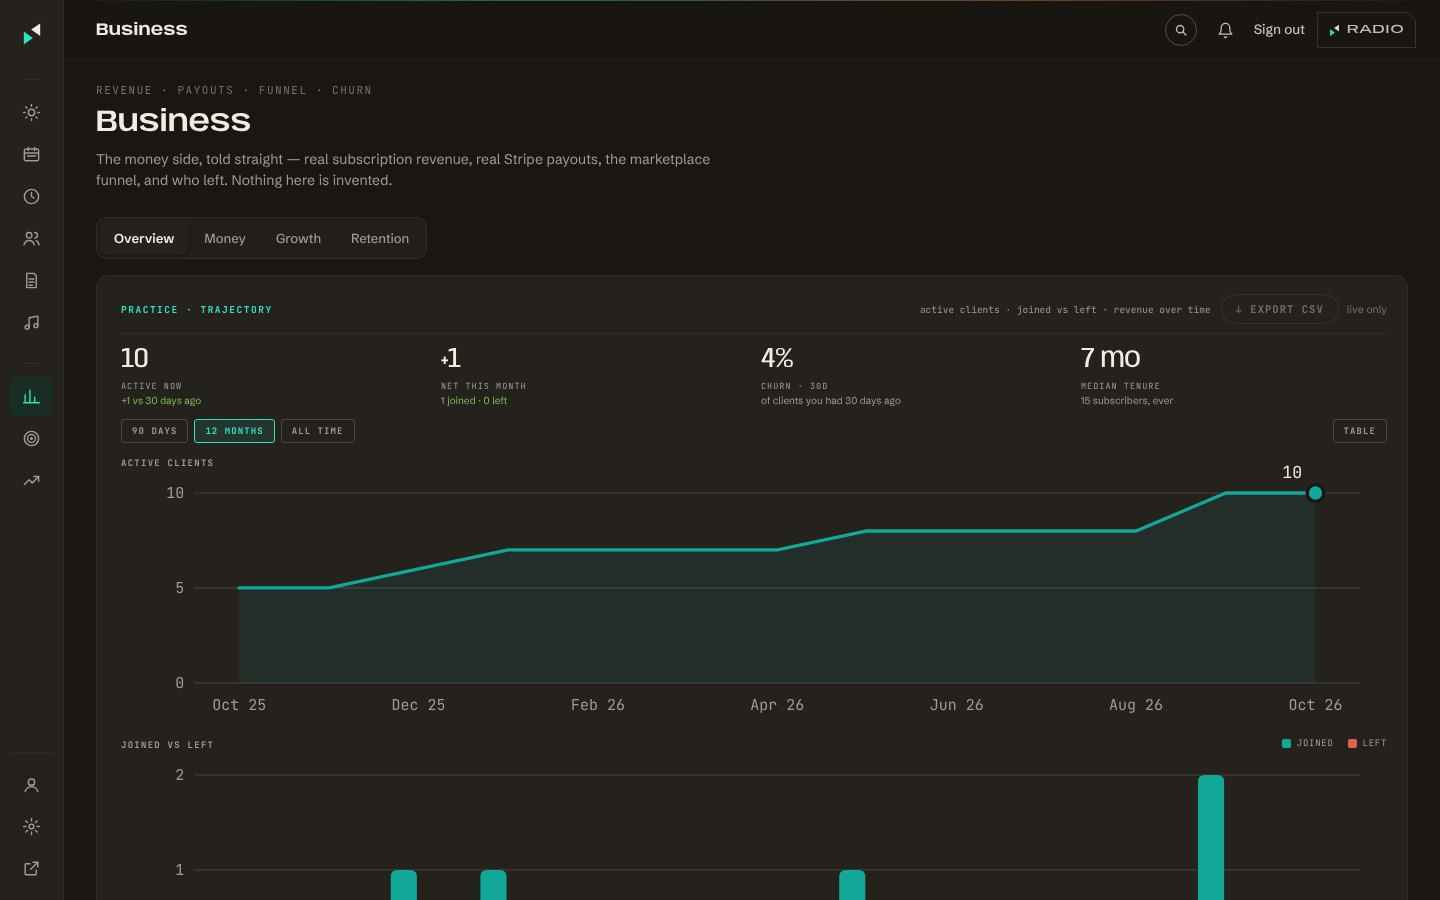
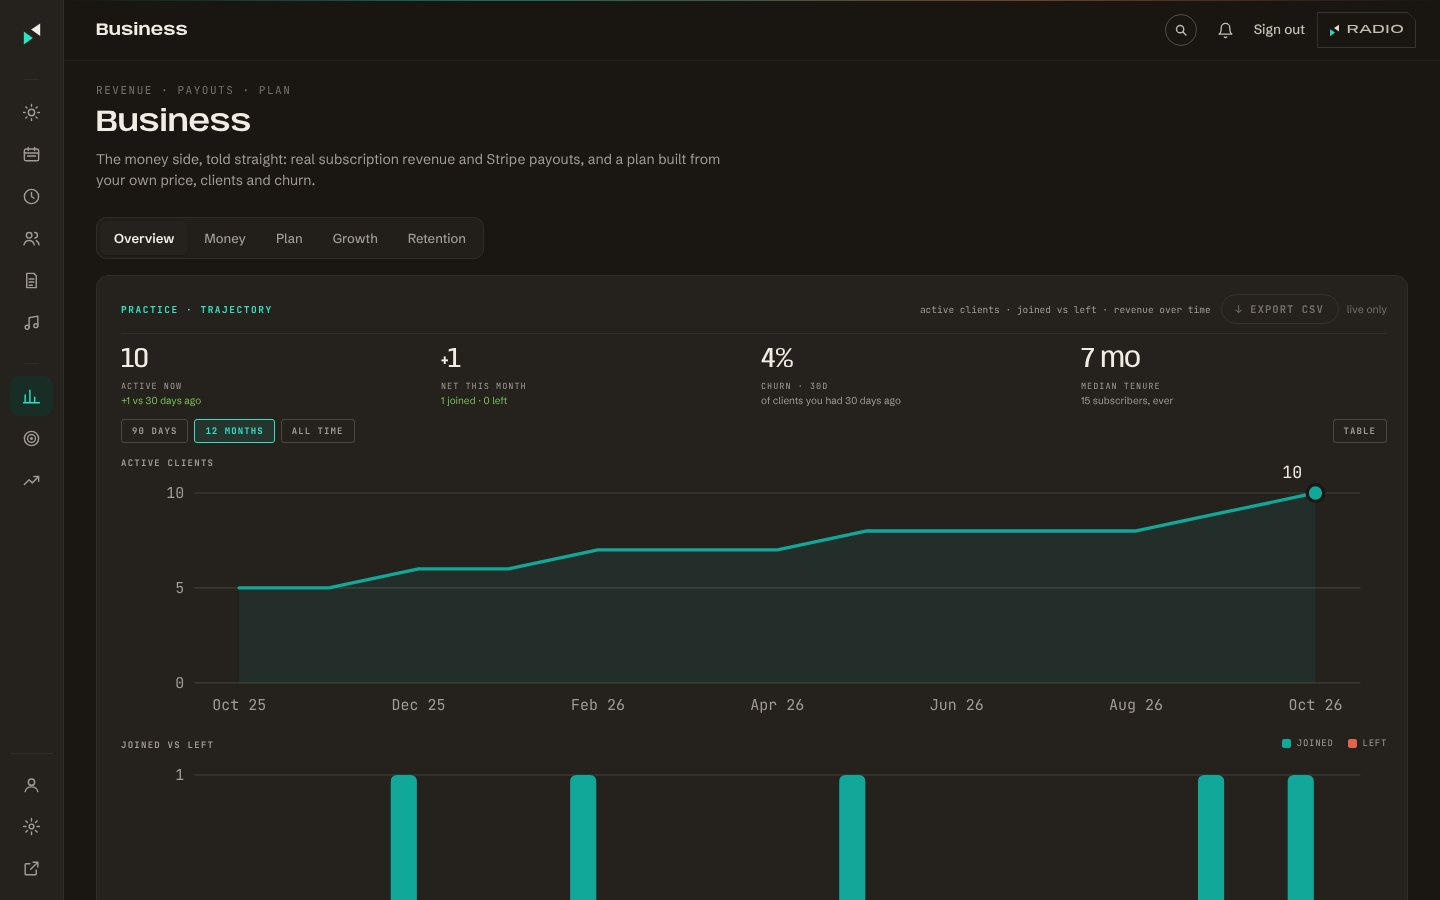
Coaches page: re-shoot the twenty dashboard frames, and the copy follows them (#2464)
* Coaches page: re-shoot the twenty dashboard frames, and the copy follows them

All twenty frames (both roles, every dashboard page but Settings) re-shot by
the recipe in coaches.jsx's header: 1440x900, dark paper, the signed-out
demo practice behind a signed-in app bar, fonts over the @fontsource-variable
files, React/ReactDOM/Babel from their npm-pack bytes (SRI-identical), JPEG
quality 86, ?v=20261026.

The copy said what the frames no longer show:
- Score counted six or seven terms; the formula is three for trainers
  (active clients, session completion, programs published) and two for
  nutritionists, as the frames' own breakdowns read.
- Goal described a revenue calculator; the card is "What clients earn you"
  (a client count and a monthly rate, read after Shape's fee).
- Business gained its Plan section; Today's Needs you gained New clients.

Claude-Session: https://claude.ai/code/session_01PffP1rUX8fL3Xxh26fzuHv

* War Room and WORKLOG: the website screenshots (#2463, #2464), and the Goal preview's failed read

The War Room records both screenshot PRs and leaves two items open: the
signed-out Goal page reading "Couldn't read your subscriptions just now"
(a 401 lands in the card's failed state, not a sample), and the Get App
Habits frame showing the untouched state. The WORKLOG's Known gaps carry
the first.

Claude-Session: https://claude.ai/code/session_01PffP1rUX8fL3Xxh26fzuHv

---------

diff --git a/public/newdesign/coaches.jsx b/public/newdesign/coaches.jsx
@@ -24,9 +24,10 @@
 // shot before the gate existed. The next person to fulfil `{user:null}` will
 // read the redirect as the harness being broken; it is the gate working.
 //
-// The Clients, Business, Goal and Score frames were re-shot 2026-10-15 (both roles), after
-// #2365 made those four pages fixed layouts with no widget builder; same recipe as below,
-// Business on its default Overview section. The ?v on `src` moved with them.
+// All twenty frames re-shot 2026-10-26 by the recipe below (Business on its default Overview
+// section), after Today's Needs you gained New clients, Business its Plan section, Goal its
+// "What clients earn you" card and Score the three-term formula. The ?v on `src` moved with
+// them. Park the pointer off the icon rail (bottom right) before each shot, or the rail opens.
 // Captures refreshed 2026-10-14, after #2343 gave the dashboard its own app frame
 // (the icon rail and the app bar ARE the dashboard now, so they stay in every frame;
 // the old recipe's "hide the site header, move main up 72px" no longer applies).
@@ -37,8 +38,9 @@
 // "Preview · demo data" band; wait for the widgets and the fonts to paint. The fonts
 // matter: Google Fonts is unreachable from the capture container, so the css2 request
 // is answered with @font-face rules over the @fontsource-variable files (Anybody with
-// its wdth axis, Schibsted Grotesk, JetBrains Mono, Space Grotesk, Fraunces), and React
-// / Babel come from `npm pack` bytes as described above. JPEG quality 86; CoFrame keeps
+// its wdth axis, Schibsted Grotesk, JetBrains Mono, Space Grotesk, Fraunces), and React,
+// ReactDOM and Babel come from their `npm pack` bytes, which match the pages' SRI hashes
+// (unpkg is unreachable too). JPEG quality 86; CoFrame keeps
 // its 40px bottom crop. No production session or client data is used. The in-frame
 // example label below remains visible in the public tour.
 //
@@ -72,8 +74,8 @@ const CO_TOUR = {
       // DashNowColumn gives demo rows a bare "UP NEXT": the countdown needs a real booking's
       // start time, so a frame of it would need a signed-in capture. The same for both roles.
       { key: "today", file: "today", name: "Today",
-        body: "Your day on the left: the session up next, what you know about the client and a button to message them, above today's timeline. Beside it, Needs you puts client attention, check-ins to review, replies waiting and next week's programming one tab apart, above your figures, arranged however you like.",
-        list: ["The next session, one tap from a message", "Today's timeline, marked where you are", "Needs you: attention, check-ins, replies and programs", "Joint-attention flags shared with the client's other coach"] },
+        body: "Your day on the left: the session up next, what you know about the client and a button to message them, above today's timeline. Beside it, Needs you puts client attention, each new client's first 30 days, check-ins to review, replies waiting and next week's programming one tab apart, above your figures, arranged however you like.",
+        list: ["The next session, one tap from a message", "Today's timeline, marked where you are", "Needs you: attention, new clients, check-ins, replies and programs", "Joint-attention flags shared with the client's other coach"] },
       { key: "week", file: "week", name: "Week",
         body: "The end-of-week review. Every client, one row: their check-in ratings, the win and the struggle they wrote, what they asked you, adherence against the week before, food logs and the weigh-in. Tick each one as you go, or close the week in one go.",
         list: ["Ratings, win, struggle and the question they asked you", "Adherence, food logs and weigh-in against the week before", "Message or leave a note from the row", "Mark all reviewed in one tap"] },
@@ -95,17 +97,17 @@ const CO_TOUR = {
         body: "Blocks, sessions, sets, reps, RPE and tempo, with autoregulation built in. Write a block once and clone it to a new client in one click.",
         list: ["Program templates by goal phase", "Who needs a program next", "Assign pre-fills the queue", "Publish a whole week at once"] },
       { key: "business", file: "business", name: "Business",
-        body: "The money side, told straight, one section at a time: the practice's trajectory, revenue and payouts, the marketplace funnel, and who stayed or left.",
-        list: ["Active clients, joined vs left, revenue over time", "Monthly recurring, net after the platform fee", "Churn and median tenure", "A CSV for your accountant"] },
+        body: "The money side, told straight, one section at a time: the practice's trajectory, your money and payouts, a plan for the next 12 months, the marketplace funnel, and who stayed or left.",
+        list: ["Active clients, joined vs left, revenue over time", "Monthly recurring, net after the platform fee", "A 12-month plan from your own price, clients and churn", "Churn and median tenure", "A CSV for your accountant"] },
       { key: "playlists", file: "playlists", name: "Playlists",
         body: "Paste a Spotify or Apple Music link, attach it to a workout, and your client gets a play button on the session card. Optional, always skippable.",
         list: ["A library of your playlists, with BPM range and length", "Attach matrix: assign playlists to workouts in bulk", "Builder: deep-edit tracks and notes", "Listens per playlist, and what you've shared"] },
       { key: "goal", file: "goal", name: "Goal",
-        body: "Your own targets for the quarter — clients, revenue, programs, adherence — each with a progress bar and the pace that gets it there. A revenue calculator turns your rate, hours and program sales into take-home.",
-        list: ["Client, revenue, program and adherence goals", "Progress and pace against the date", "Session rate × sessions, plus subscriptions and one-time sales", "Weekly, monthly, quarterly and annual take-home, net of the platform fee"] },
+        body: "Your own targets for the quarter — clients, revenue, programs, adherence — each with a progress bar and the pace that gets it there. What clients earn you starts from your live figures: set a client count and a monthly rate, and read what you take home after Shape's fee.",
+        list: ["Client, revenue, program and adherence goals", "Progress and pace against the date", "Clients × monthly rate, with the clients you brought yourself counted apart", "Your take-home after Shape's fee, and a 12-month plan on Business"] },
       { key: "score", file: "score", name: "Score",
-        body: "Your coach score, added up from active clients, adherence, session completion, client PRs, programs published and reviews. It drives marketplace ranking and the verified badge.",
-        list: ["Five tiers, Certified to Icon", "A breakdown of what earns the points", "What your tier unlocks", "How each action earns points"] },
+        body: "Your coach score, added up from three things: your active clients, your session completion and the programs you publish. It drives marketplace ranking and the verified badge.",
+        list: ["Five tiers, Certified to Icon", "A breakdown of what earns the points", "What the next tier unlocks", "How each term earns points"] },
       { key: "profile", file: "profile", name: "Profile",
         body: "The profile clients see on the marketplace: your credentials, coaching philosophy, Shape score and streak, availability with a book-a-consult button, and your activity, reviews and music underneath.",
         list: ["Credentials, philosophy and where you coach", "Availability, and a button to book a consult", "Activity, about, coaching, reviews and music", "Followers, following and posts"] },
@@ -115,8 +117,8 @@ const CO_TOUR = {
     label: "Nutritionist",
     tabs: [
       { key: "today", file: "today", name: "Today",
-        body: "Your day on the left: the consult up next, what you know about the client and a button to message them, above today's timeline. Beside it, Needs you puts client attention, check-ins to review and replies waiting one tab apart, above your figures and roster health, arranged however you like.",
-        list: ["The next consult, one tap from a message", "Today's timeline, marked where you are", "Needs you: attention, check-ins and replies", "Joint-attention flags shared with the client's trainer"] },
+        body: "Your day on the left: the consult up next, what you know about the client and a button to message them, above today's timeline. Beside it, Needs you puts client attention, each new client's first 30 days, check-ins to review, replies waiting and the plans due next one tab apart, above your figures and roster health, arranged however you like.",
+        list: ["The next consult, one tap from a message", "Today's timeline, marked where you are", "Needs you: attention, new clients, check-ins, replies and plans", "Joint-attention flags shared with the client's trainer"] },
       { key: "week", file: "week", name: "Week",
         body: "The end-of-week review. Every client, one row: their check-in ratings, the win and the struggle they wrote, what they asked you, adherence against the week before, food logs and the weigh-in. Tick each one as you go, or close the week in one go.",
         list: ["Ratings, win, struggle and the question they asked you", "Adherence, food logs and weigh-in against the week before", "Message or leave a note from the row", "Mark all reviewed in one tap"] },
@@ -134,17 +136,17 @@ const CO_TOUR = {
         body: "Macro targets, swap rules and grocery lists that generate themselves. Save any plan as a template and reuse it across clients; the lifecycle view says who needs a plan next.",
         list: ["Plan templates by goal phase", "Expiring this week, ready for a phase change", "Assign pre-fills the plan queue", "Intake pending, so nothing is written blind"] },
       { key: "business", file: "business", name: "Business",
-        body: "The money side, told straight, one section at a time: the practice's trajectory, revenue and payouts, the marketplace funnel, and who stayed or left.",
-        list: ["Active clients, joined vs left, revenue over time", "Monthly recurring, net after the platform fee", "Churn and median tenure", "A CSV for your accountant"] },
+        body: "The money side, told straight, one section at a time: the practice's trajectory, your money and payouts, a plan for the next 12 months, the marketplace funnel, and who stayed or left.",
+        list: ["Active clients, joined vs left, revenue over time", "Monthly recurring, net after the platform fee", "A 12-month plan from your own price, clients and churn", "Churn and median tenure", "A CSV for your accountant"] },
       { key: "playlists", file: "playlists", name: "Playlists",
         body: "Paste a Spotify or Apple Music link, attach it to a meal, recipe or prep routine, and your client gets a play button in their kitchen. Optional, always skippable.",
         list: ["A library of your playlists, with BPM range and length", "Attach matrix: assign playlists to meals in bulk", "Builder: deep-edit tracks and notes", "Listens per playlist, and what you've shared"] },
       { key: "goal", file: "goal", name: "Goal",
-        body: "Your own targets for the quarter — clients, revenue, plans, adherence — each with a progress bar and the pace that gets it there. A revenue calculator turns your consult rate, consults and meal-plan subscribers into take-home.",
-        list: ["Client, revenue, plan and adherence goals", "Progress and pace against the date", "Consult rate × consults, plus meal-plan subscriptions", "Weekly, monthly, quarterly and annual take-home, net of the platform fee"] },
+        body: "Your own targets for the quarter — clients, revenue, plans, adherence — each with a progress bar and the pace that gets it there. What clients earn you starts from your live figures: set a client count and a monthly rate, and read what you take home after Shape's fee.",
+        list: ["Client, revenue, plan and adherence goals", "Progress and pace against the date", "Clients × monthly rate, with the clients you brought yourself counted apart", "Your take-home after Shape's fee, and a 12-month plan on Business"] },
       { key: "score", file: "score", name: "Score",
-        body: "Your coach score, added up from active clients, log adherence, client body-composition wins, plans published, reviews and the Radio rooms you host. It drives marketplace ranking and the verified badge.",
-        list: ["Five tiers, Certified to Icon", "A breakdown of what earns the points", "What your tier unlocks", "How each action earns points"] },
+        body: "Your coach score, added up from two things: your active clients and your session completion. It drives marketplace ranking and the verified badge.",
+        list: ["Five tiers, Certified to Icon", "A breakdown of what earns the points", "What the next tier unlocks", "How each term earns points"] },
       { key: "profile", file: "profile", name: "Profile",
         body: "The profile clients see on the marketplace: your credentials, practice philosophy, Shape score and streak, availability with a book-a-consult button, and your activity, reviews and music underneath.",
         list: ["Credentials, philosophy and where you practise", "Availability, and a button to book a consult", "Activity, about, coaching, reviews and music", "Followers, following and posts"] },
@@ -155,7 +157,7 @@ const CO_TOUR = {
 // ⚠ THE FRAME CARRIES ITS OWN LABEL. Not a caption under the picture — a mark on
 // it, so the claim travels with the image wherever it is seen.
 function CoFrame({ role, tab, style = {} }) {
-  const src = `/newdesign/coaches/coaches-dash-${role}-${tab.file}.jpg?v=20261015-fixed`;
+  const src = `/newdesign/coaches/coaches-dash-${role}-${tab.file}.jpg?v=20261026`;
   return (
     <div style={{ border: "1px solid rgba(238,243,240,0.10)", borderRadius: 10, background: "#0a0f17", boxShadow: "0 40px 90px rgba(0,0,0,0.55)", overflow: "hidden", ...style }}>
       <div style={{ display: "flex", alignItems: "center", gap: 10, height: 34, padding: "0 12px", borderBottom: "1px solid rgba(238,243,240,0.055)", background: "rgba(255,255,255,0.02)" }}>

diff --git a/src/lib/warroom.ts b/src/lib/warroom.ts
@@ -615,6 +615,17 @@ function buildChecklist(config: ConfigGroup[], mobileBuild = false): ChecklistSe
 
   return [
     {
+      section: 'The website\'s screenshots re-shot: the homepage and Get App (#2463), and the Coaches page\'s twenty frames — #2464. No migration',
+      items: [
+        { label: 'Owner, 2026-10-26: "now need to update all screen shots of app on website", "on home/index page and app page", then "re-shoot the coaches page snapshots too"', status: 'done' },
+        { label: 'Homepage and Get App (#2463): all 17 app captures (12 screens) re-shot from the signed-out preview at 600×1387, the clock pinned to Fri 2026-09-11 09:30 New York; the Get App PNGs replaced in place (?v=20261026), the homepage JPEGs renamed -v3, the loop\'s four rings re-measured and re-pinned in tests/homepage-climb.test.mjs; the copy and alt text follow the screens', status: 'done' },
+        { label: 'Coaches page (#2464): all 20 dashboard frames re-shot by the coaches.jsx recipe (?v=20261026); the Score copy names the real formula (three terms for a trainer, two for a nutritionist), Goal names What clients earn you, Business its Plan, Today its New clients', status: 'done' },
+        { label: 'Review: Codex clean on #2463 (d7271e9) and on #2464 (d9f517e, after its first run stalled and was re-requested); CI green on both', status: 'done' },
+        { label: 'Signed out, the website dashboard\'s Goal page reads "Couldn\'t read your subscriptions just now" under What clients earn you: a 401 lands in the card\'s failed state, not a sample (DbzGoalEarn, dashBusiness.jsx). The Coaches page frame crops the line off', status: 'pending' },
+        { label: 'The Get App Habits frame is the untouched state: a tap in the preview opens sign-up, so a ticked habit needs a signed-in capture', status: 'pending' },
+      ],
+    },
+    {
       section: 'Upkeep: the 80 coach keys nothing reads, and Next.js 16.4.3 with the patched dependencies — #2462. No migration',
       items: [
         { label: 'Owner, 2026-10-26: "Clean up the 30 unused coach keys", then "Fix the vulnerabilities" (GitHub reported 54 Dependabot alerts on main, 1 critical and 29 high)', status: 'done' },

diff --git a/docs/WORKLOG.md b/docs/WORKLOG.md
@@ -196,6 +196,8 @@ The War Room has the full list; this covers what needs the owner and the planned
   days (`payment_pending`).
 - Business: five read gaps, from the plan's goal not being remembered to the 25-renewal Stripe
   check (War Room).
+- Signed out, the website Goal page's What clients earn you reads "Couldn't read your subscriptions
+  just now": a 401 lands in its failed state, not a sample (War Room).
 - Home (`BSHomeSections.jsx`): Week so far counts days trained against the plan's sessions, and
   food days, not meals; a protein or steps square without a target takes any reading; the
   weekly notes, message doors and next session show only for a paid coach.
